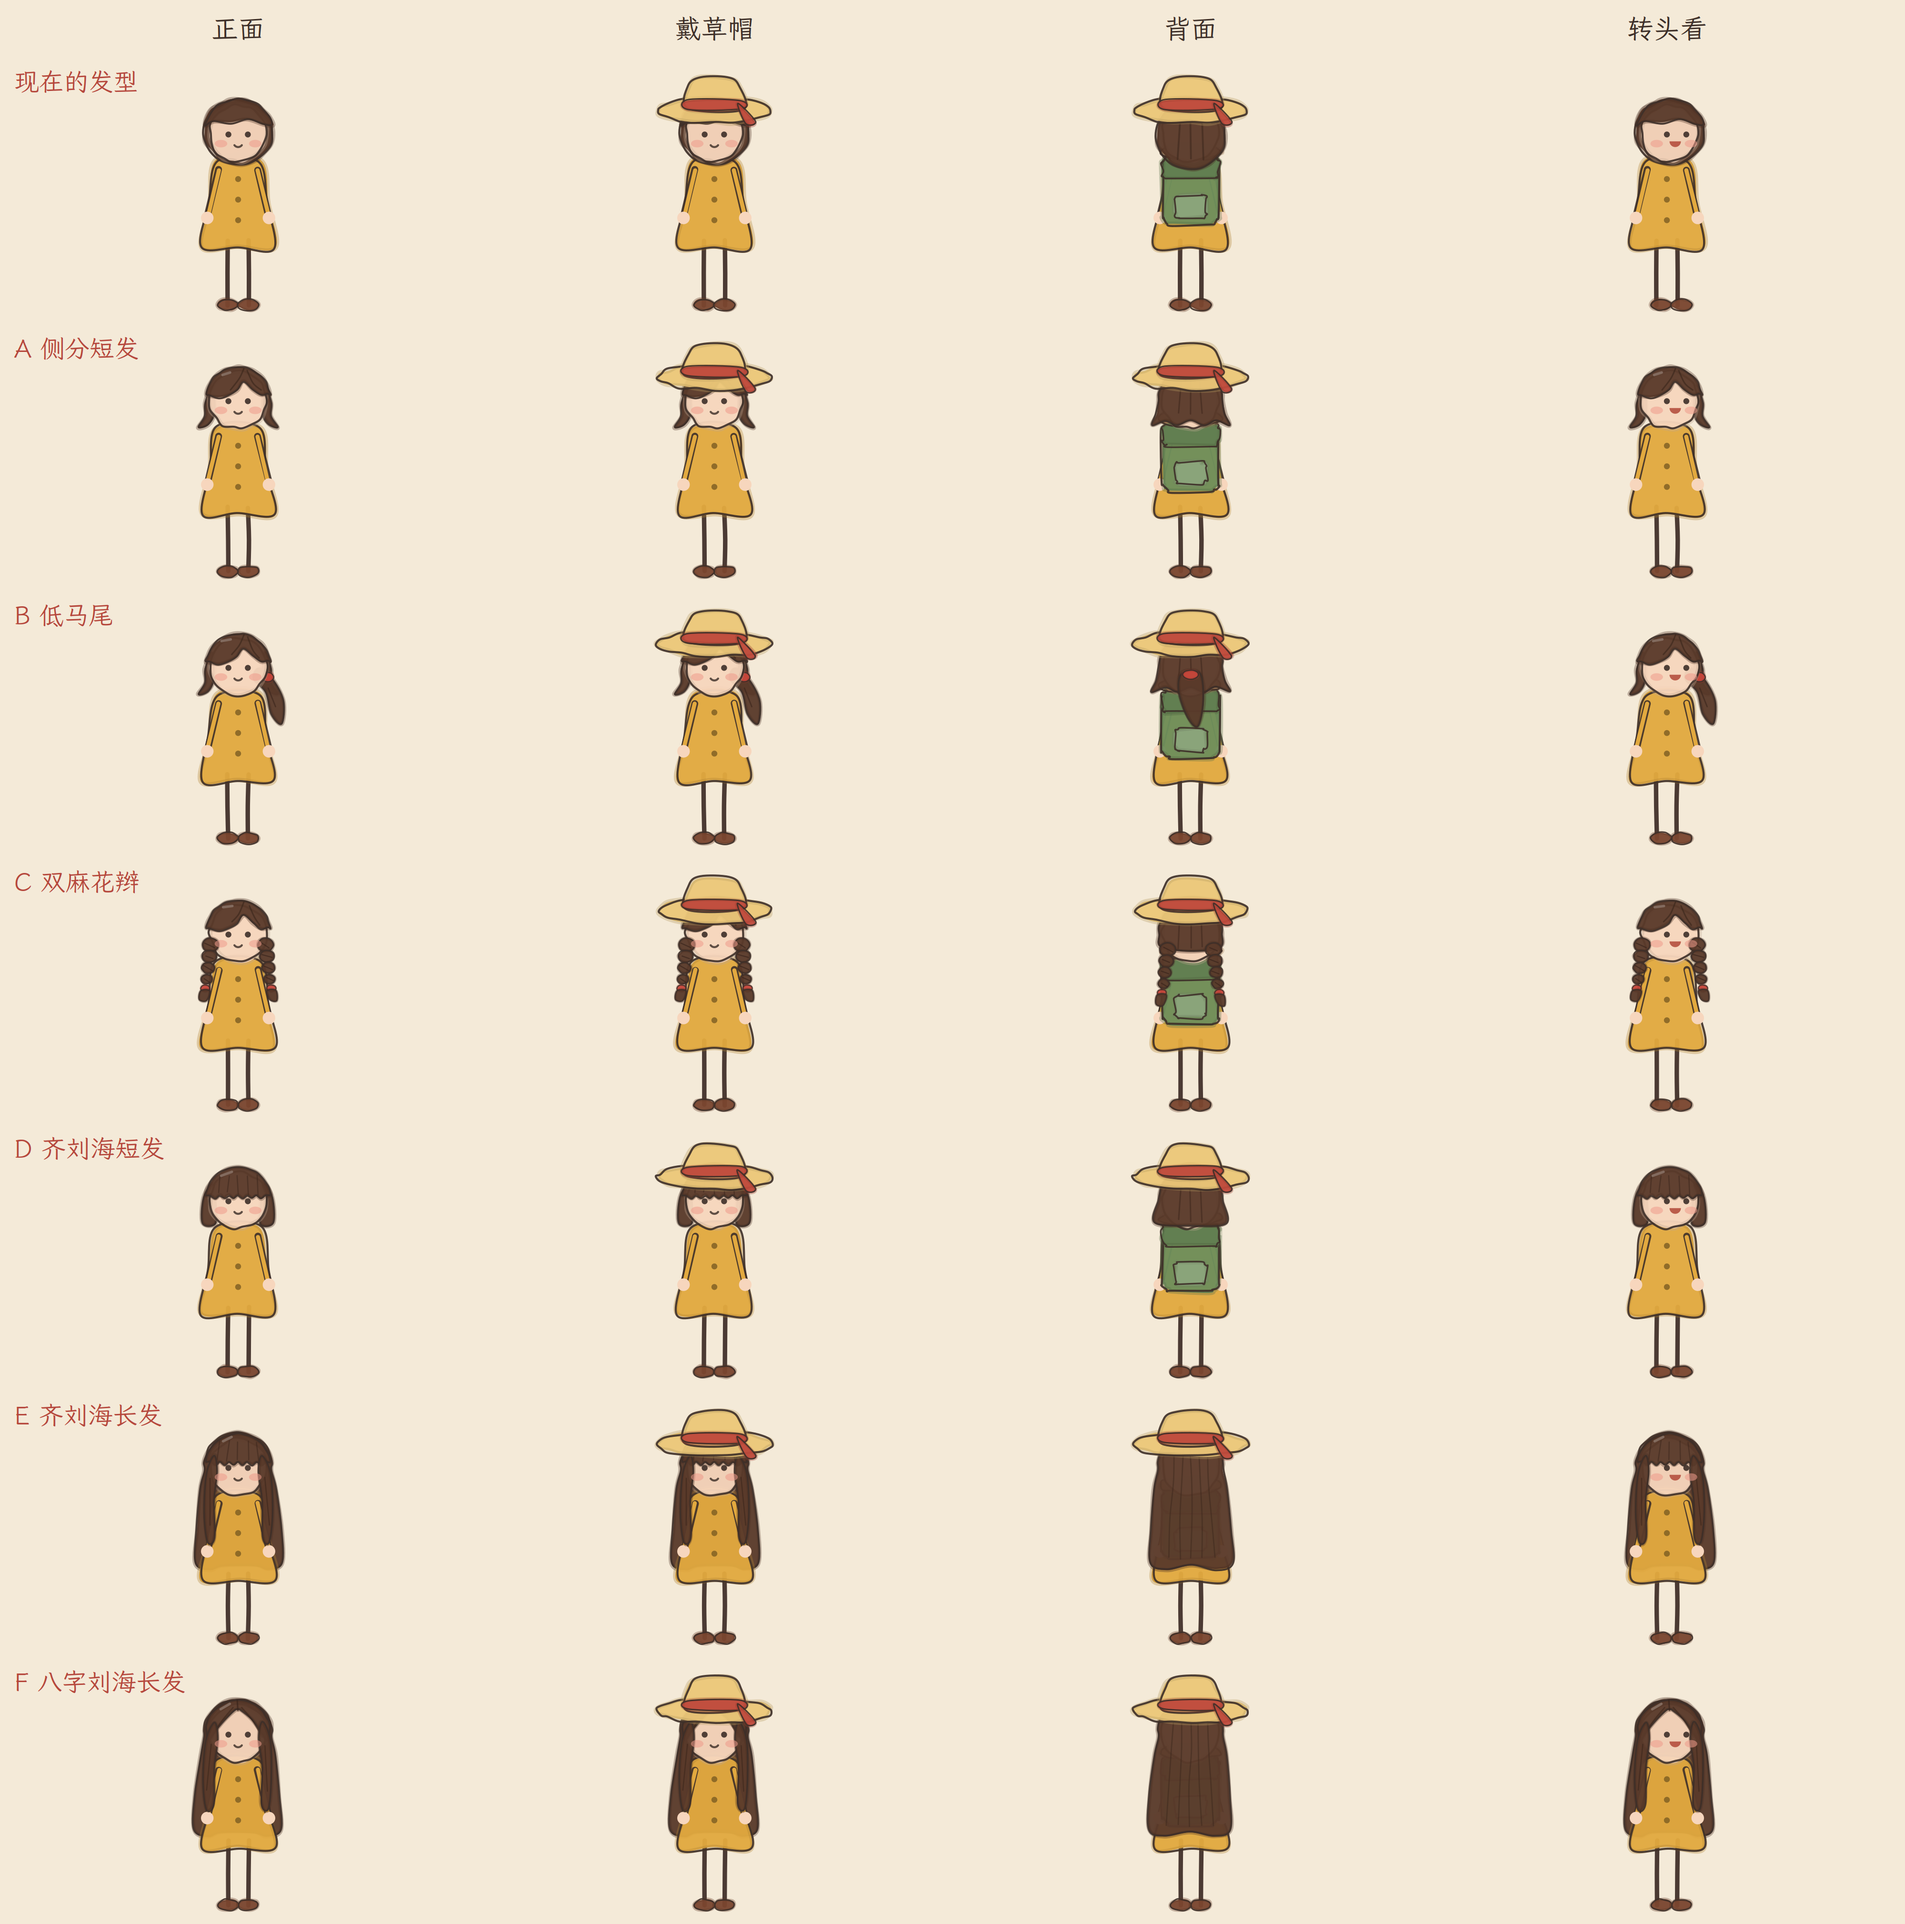
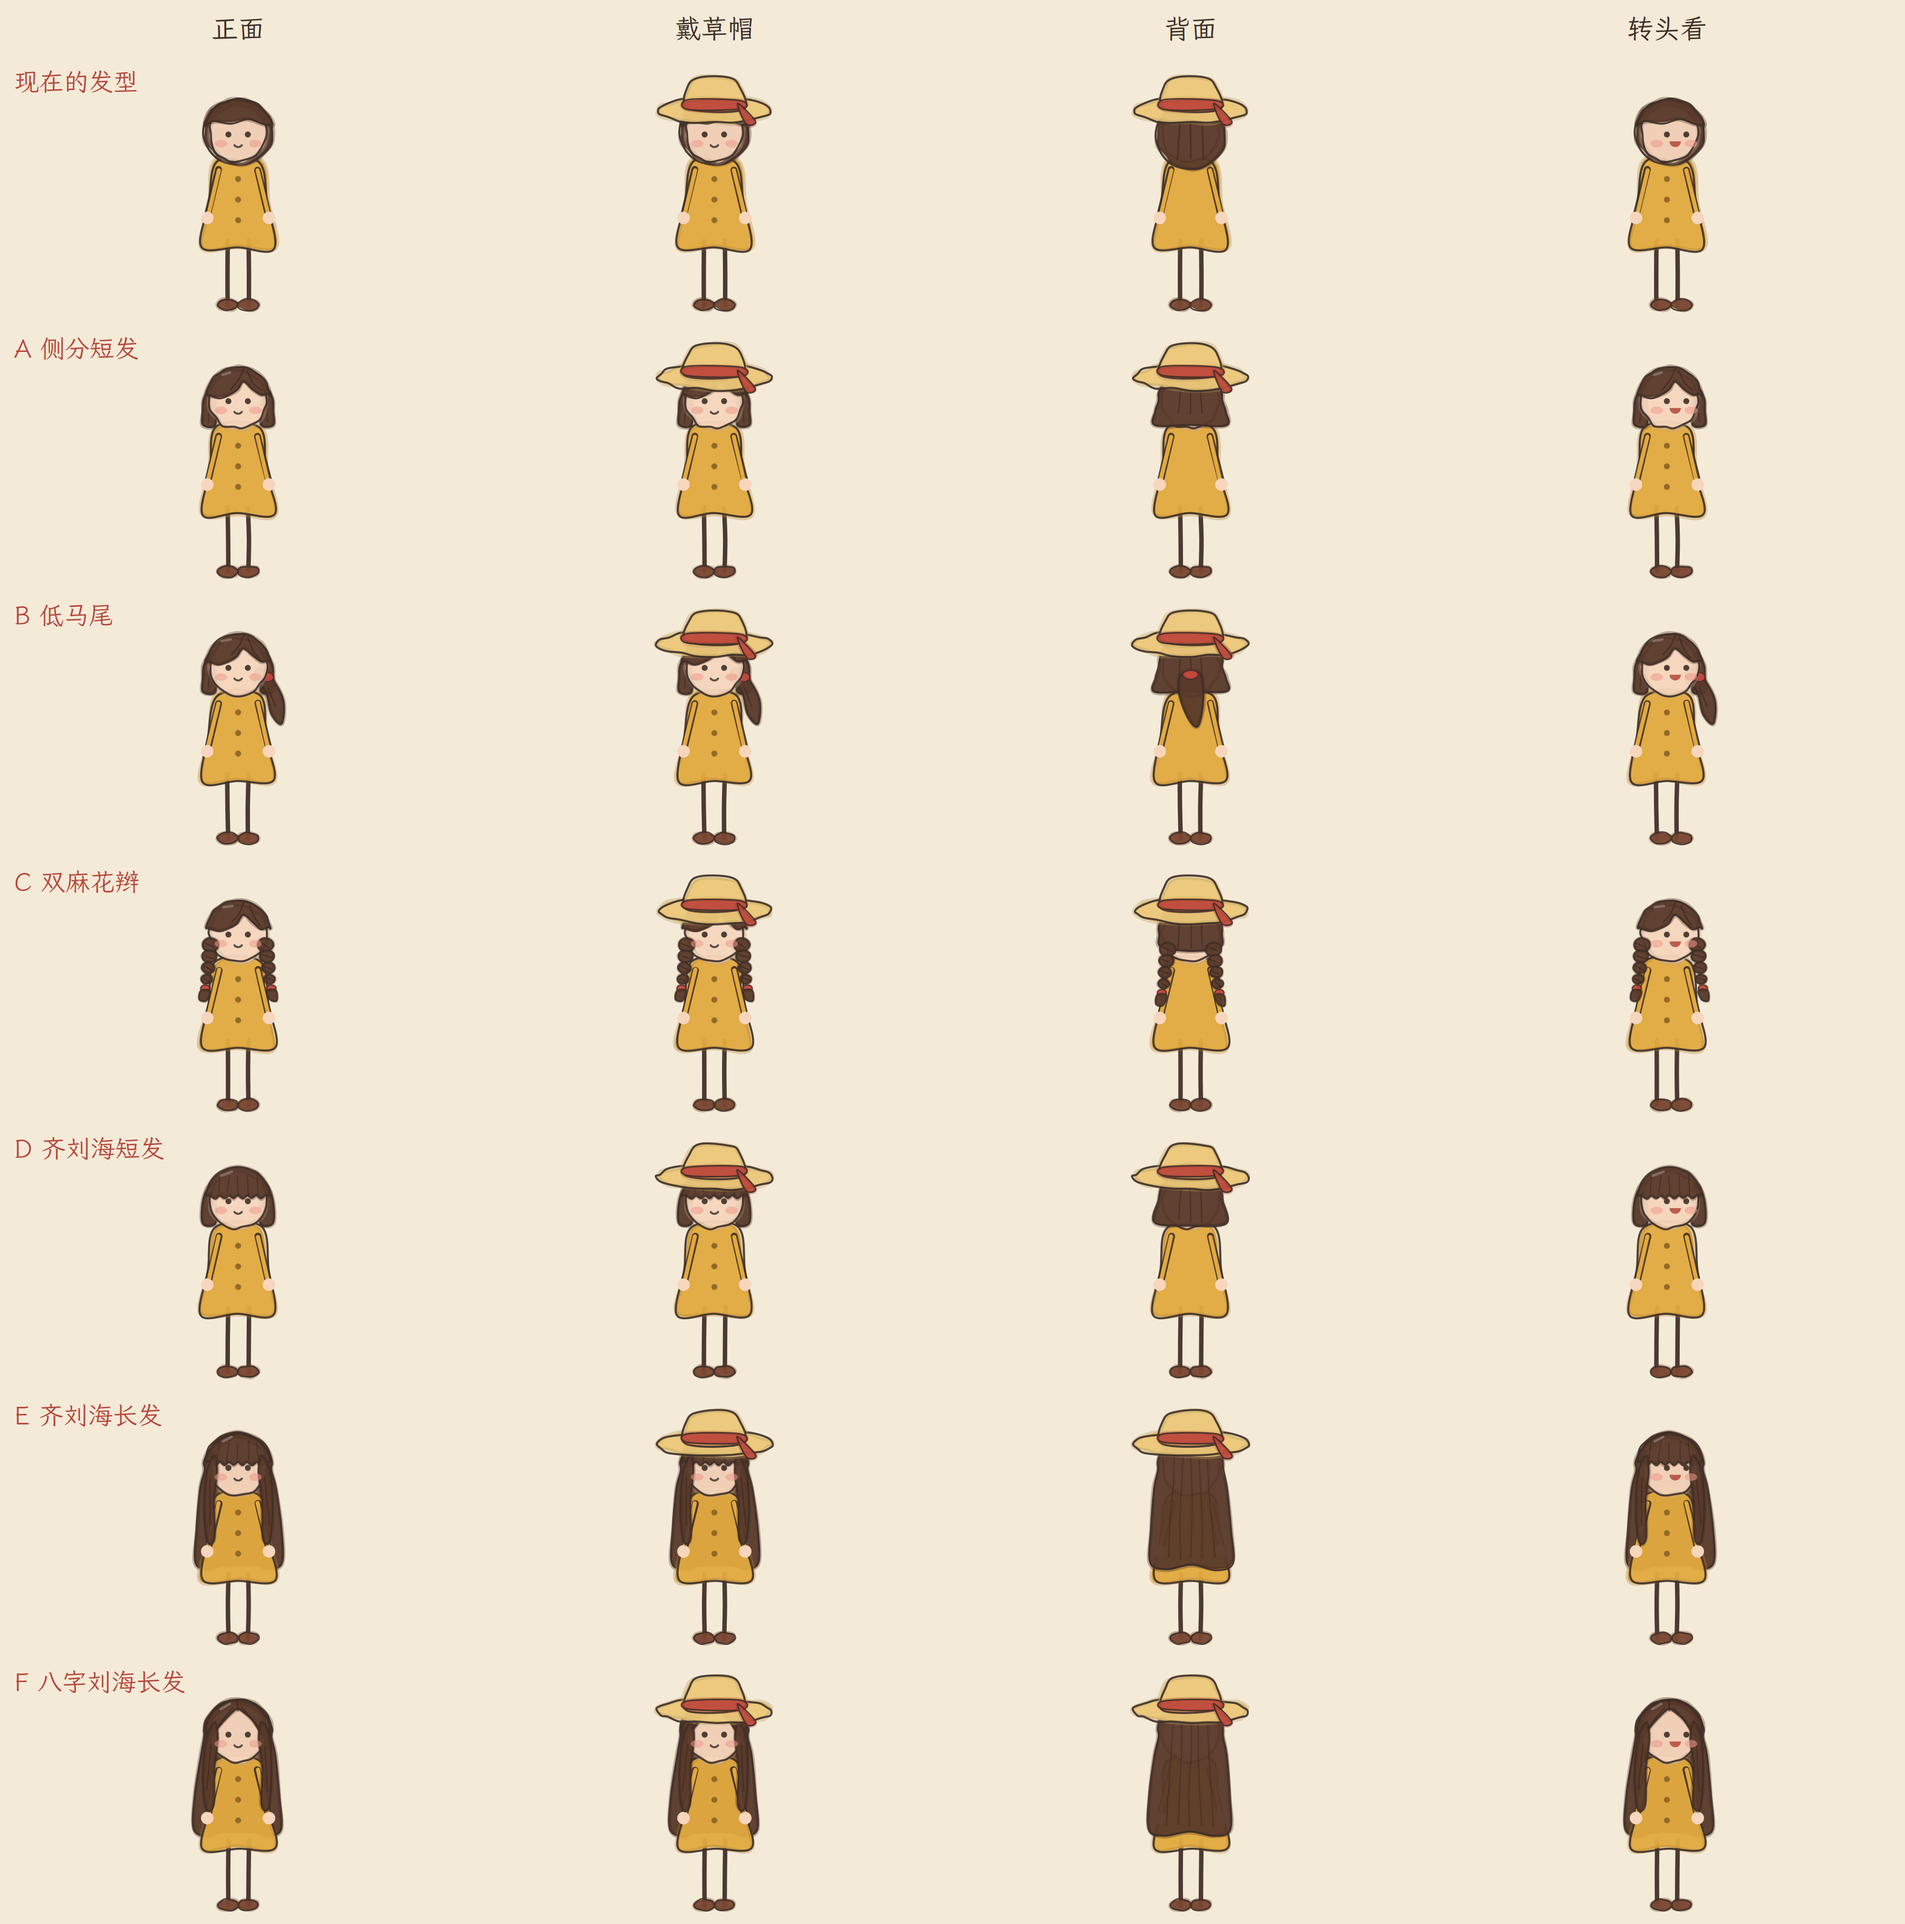
人物设定：发型改为齐平下摆的短发（去掉两侧外翘），设定图背面去掉背包
Claude-Session: https://claude.ai/code/session_016YmjUFEpcpE2RDQgwmoYJP

diff --git a/video/series/draw.py b/video/series/draw.py
@@ -745,12 +745,11 @@ def _sway(key, k=1.0):
 def _hair_behind(c, style, x, y, hair, key, lw):
     """脸后面的头发：只露出两侧和脑后，不在下巴处合成一圈。"""
     if style in ("sweep", "pony"):
-        for sg in (-1, 1):
-            pts = [(x + sg * 23, y - 12), (x + sg * 31, y), (x + sg * 29, y + 12), (x + sg * 34, y + 22), (x + sg * 38, y + 30),
-                   (x + sg * 31, y + 31), (x + sg * 26, y + 25), (x + sg * 23, y + 14), (x + sg * 20, y + 4)]
-            shape(c, pts, hair, f"{key}lk{sg}", lw=lw * 0.9, amp=0.5)
-            line(c, [(x + sg * 26, y), (x + sg * 28, y + 14), (x + sg * 33, y + 25)], f"{key}wv{sg}", 1.1, darker(hair, 0.6),
-                 alpha=0.5)
+        for sg in (-1, 1):                     # 两侧顺直垂下，下摆齐平，不外翘
+            pts = [(x + sg * 23, y - 12), (x + sg * 30, y - 2), (x + sg * 31, y + 10), (x + sg * 31, y + 22),
+                   (x + sg * 20, y + 22), (x + sg * 20, y + 4)]
+            shape(c, pts, hair, f"{key}lk{sg}", lw=lw * 0.9, amp=0.35)
+            line(c, [(x + sg * 25, y), (x + sg * 26, y + 19)], f"{key}wv{sg}", 1.1, darker(hair, 0.6), alpha=0.45)
     if style == "bang_short":
         for sg in (-1, 1):
             pts = [(x + sg * 22, y - 14), (x + sg * 30, y - 2), (x + sg * 31, y + 20), (x + sg * 20, y + 21), (x + sg * 20, y + 4)]
@@ -853,8 +852,7 @@ def _hair_back_view(c, style, y, hair, key, lw):
         return
     pts = ell(0, y - 1, 28, 27, 14, math.pi * 0.98, math.pi * 2.02)
     if style in ("sweep", "pony"):
-        pts += [(31, y + 12), (37, y + 28), (26, y + 26), (16, y + 30), (5, y + 26), (-5, y + 30), (-16, y + 26),
-                (-26, y + 30), (-37, y + 28), (-31, y + 12)]
+        pts += [(31, y + 10), (31, y + 22), (-31, y + 22), (-31, y + 10)]      # 齐平的下摆
     else:
         pts += [(26, y + 12), (0, y + 16), (-26, y + 12)]
     shape(c, pts, hair, key + "bk", lw=lw * 0.9, amp=0.6)

diff --git a/video/series/character_sheet.py b/video/series/character_sheet.py
@@ -28,7 +28,7 @@ def main(path, styles):
         kw = dict(hair_style=st, pack=False, key=f"cs{st}")
         girl(c, cw * 0.5, y, 2.4, hat=False, **kw)
         girl(c, cw * 1.5, y, 2.4, hat=True, **kw)
-        girl(c, cw * 2.5, y, 2.4, hat=True, view="back", **{**kw, "pack": True})
+        girl(c, cw * 2.5, y, 2.4, hat=True, view="back", **kw)
         girl(c, cw * 3.5, y, 2.4, hat=False, look=1.0, mouth="laugh", **kw)
     surf.write_to_png(path)
 
@@ -49,7 +49,7 @@ def costume_sheet(path):
         text(c, lab, 30, 120 + rh * i + 70, 52, hexc("b5473c"), anchor="l")
         kw = dict(hair_style="sweep", pack=False, key=f"cos{o}", outfit=None if o == "coat" else o)
         girl(c, cw * 0.5, y, 2.4, hat=True, **kw)
-        girl(c, cw * 1.5, y, 2.4, hat=True, view="back", **{**kw, "pack": True})
+        girl(c, cw * 1.5, y, 2.4, hat=True, view="back", **kw)
         girl(c, cw * 2.5, y, 2.4, hat=True, walk=0.9, look=1.0, **kw)
         girl(c, cw * 3.5, y, 2.4, hat=True, look=1.0, mouth="laugh", **kw)
     surf.write_to_png(path)
